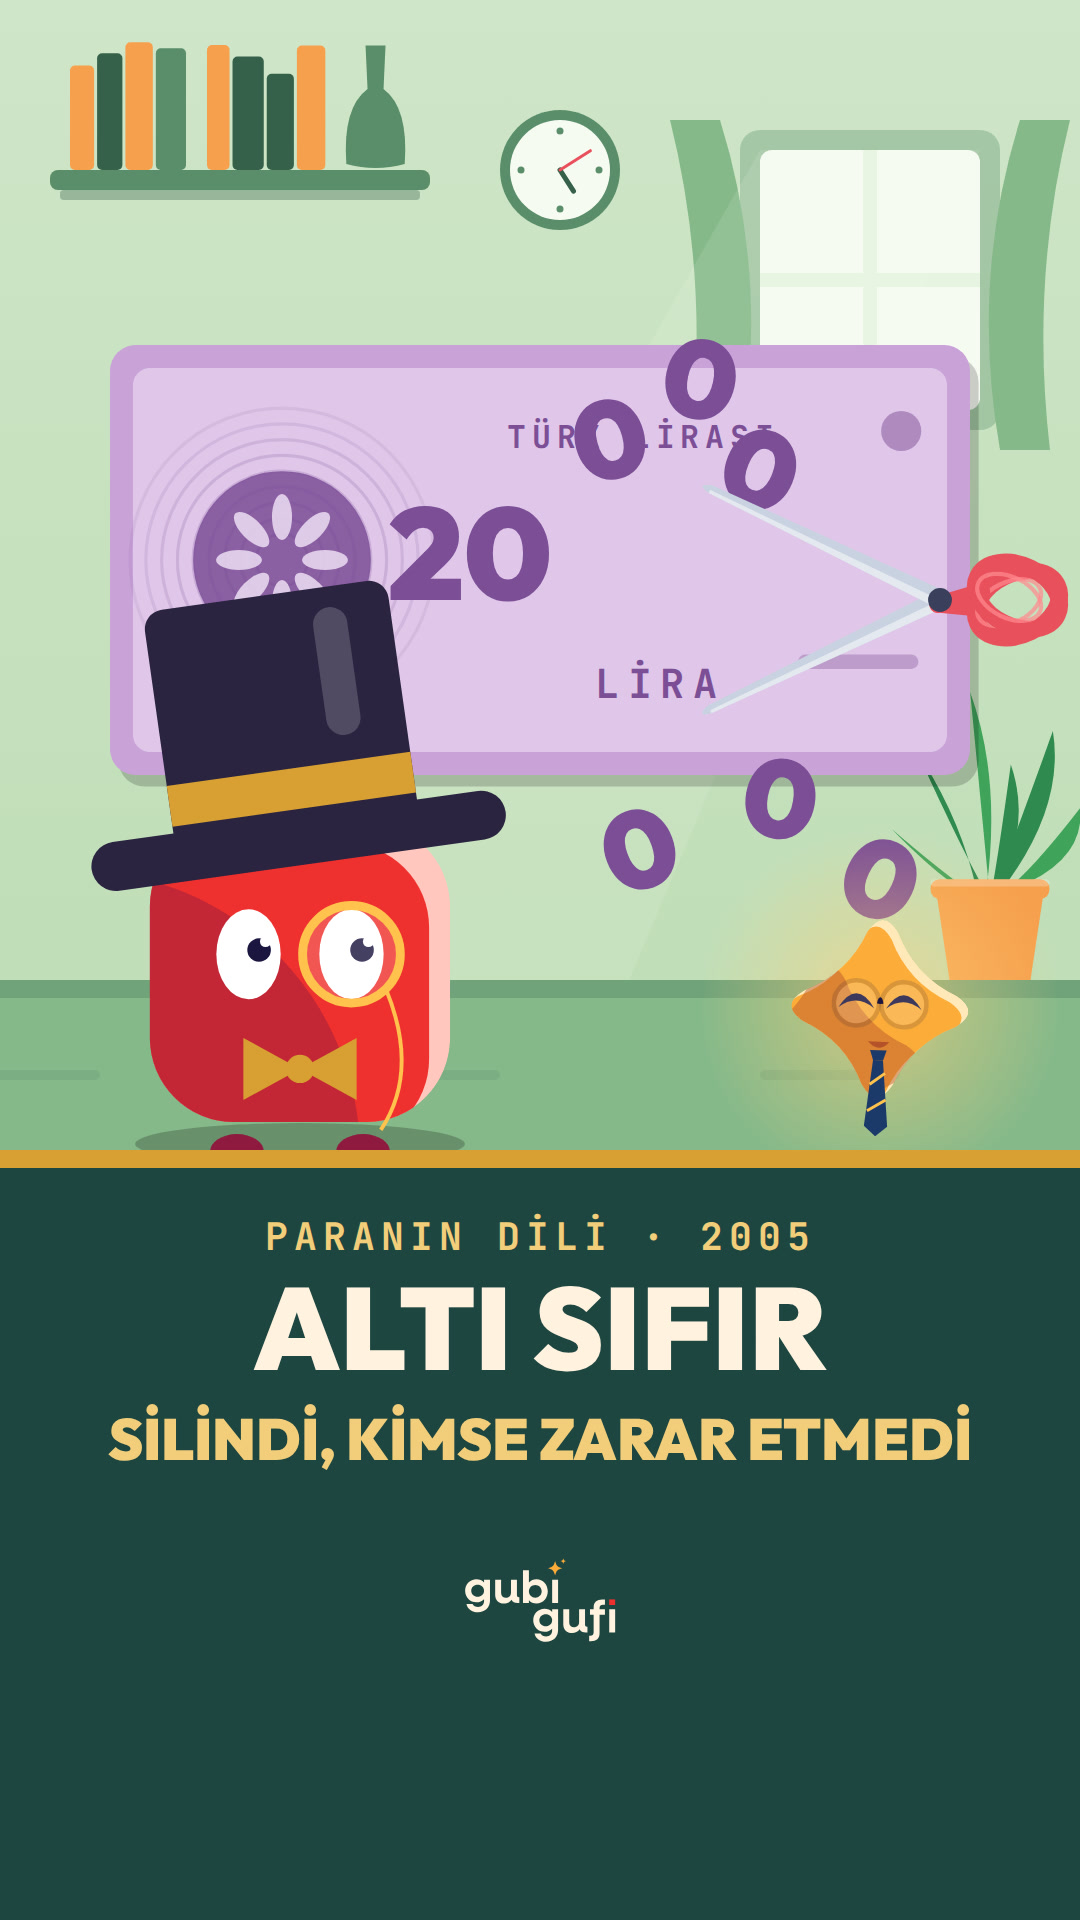
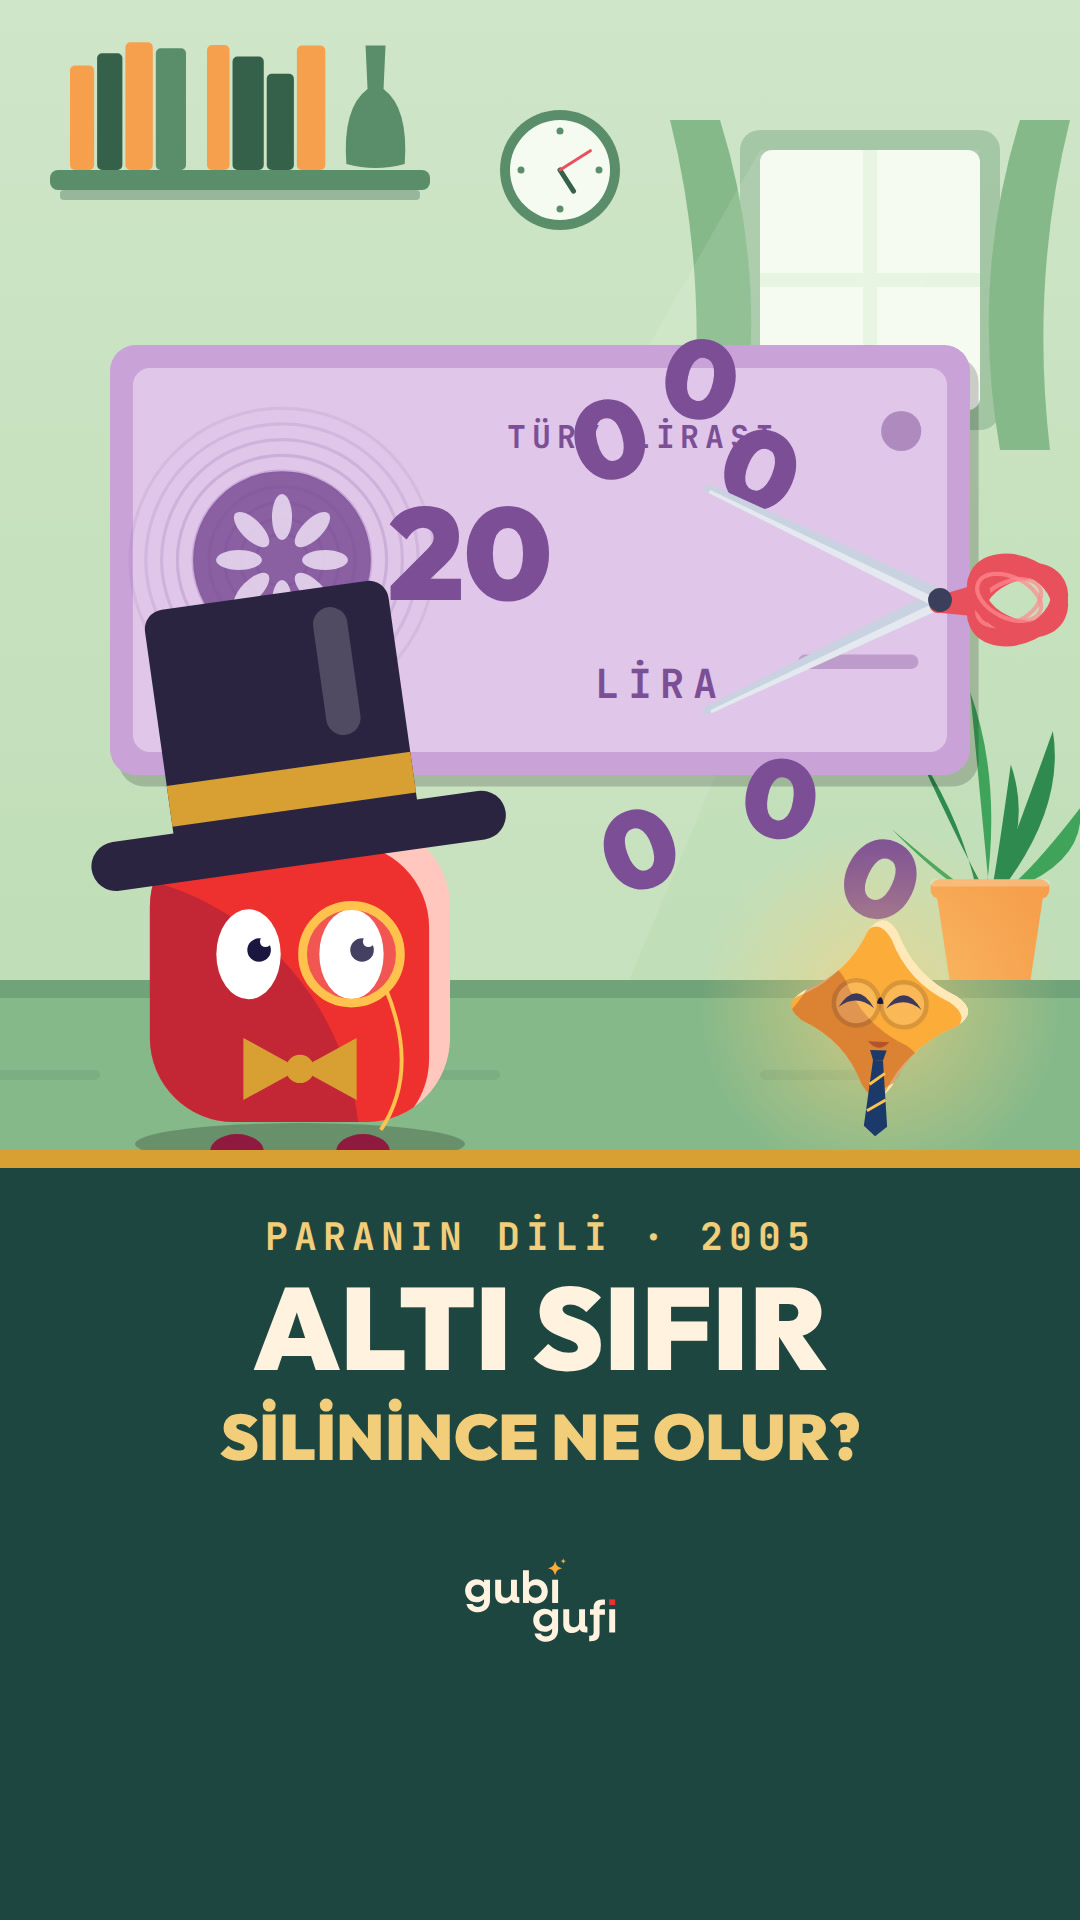
#14 kapak alt başlığı: SİLİNİNCE NE OLUR?
Claude-Session: https://claude.ai/code/session_01XpFWe2qV8RD24ed2Fkasje

Changed region(s): [[0.0917, 0.7188, 0.9167, 0.7812]]

diff --git a/gubigufi/2026-09-30/14-alti-sifir/kaynak/sahneler/kapak.html b/gubigufi/2026-09-30/14-alti-sifir/kaynak/sahneler/kapak.html
@@ -15,7 +15,7 @@ window.renderAt = t => {
   o += M.canli('gubi', { t: 1.2, x: 880, y: 1010, boy: 190, duygu: 'mutlu', bakHedef: [540, 560], ust: KO.giy('gubi', [['kravat', { renk: '#1B3A6A' }], 'gozluk']) });
   o += `<rect x="0" y="1150" width="1080" height="770" fill="#1E4640"/><rect x="0" y="1150" width="1080" height="18" fill="#D8A032"/>`;
   o += `<text class="mono" x="540" y="1250" font-size="38" text-anchor="middle" letter-spacing="6" style="fill:#F2CE7A">PARANIN DİLİ · 2005</text>`;
-  o += txt('ALTI SIFIR', 540, 1370, 116) + txt('SİLİNDİ, KİMSE ZARAR ETMEDİ', 540, 1460, 58, '#F2CE7A');
+  o += txt('ALTI SIFIR', 540, 1370, 116) + txt('SİLİNİNCE NE OLUR?', 540, 1460, 64, '#F2CE7A');
   const S = 150 / 233; let l = `<g transform="translate(540 1600) scale(${S}) translate(-141.5 -141.5)">`;
   for (const p of window.LOGO_PATHS) l += `<path transform="${p.t}" d="${p.d}" fill="${p.fill === '#231f20' ? '#FFF3E0' : p.fill}"/>`;
   document.getElementById('dinamik').innerHTML = o + l + '</g>';
